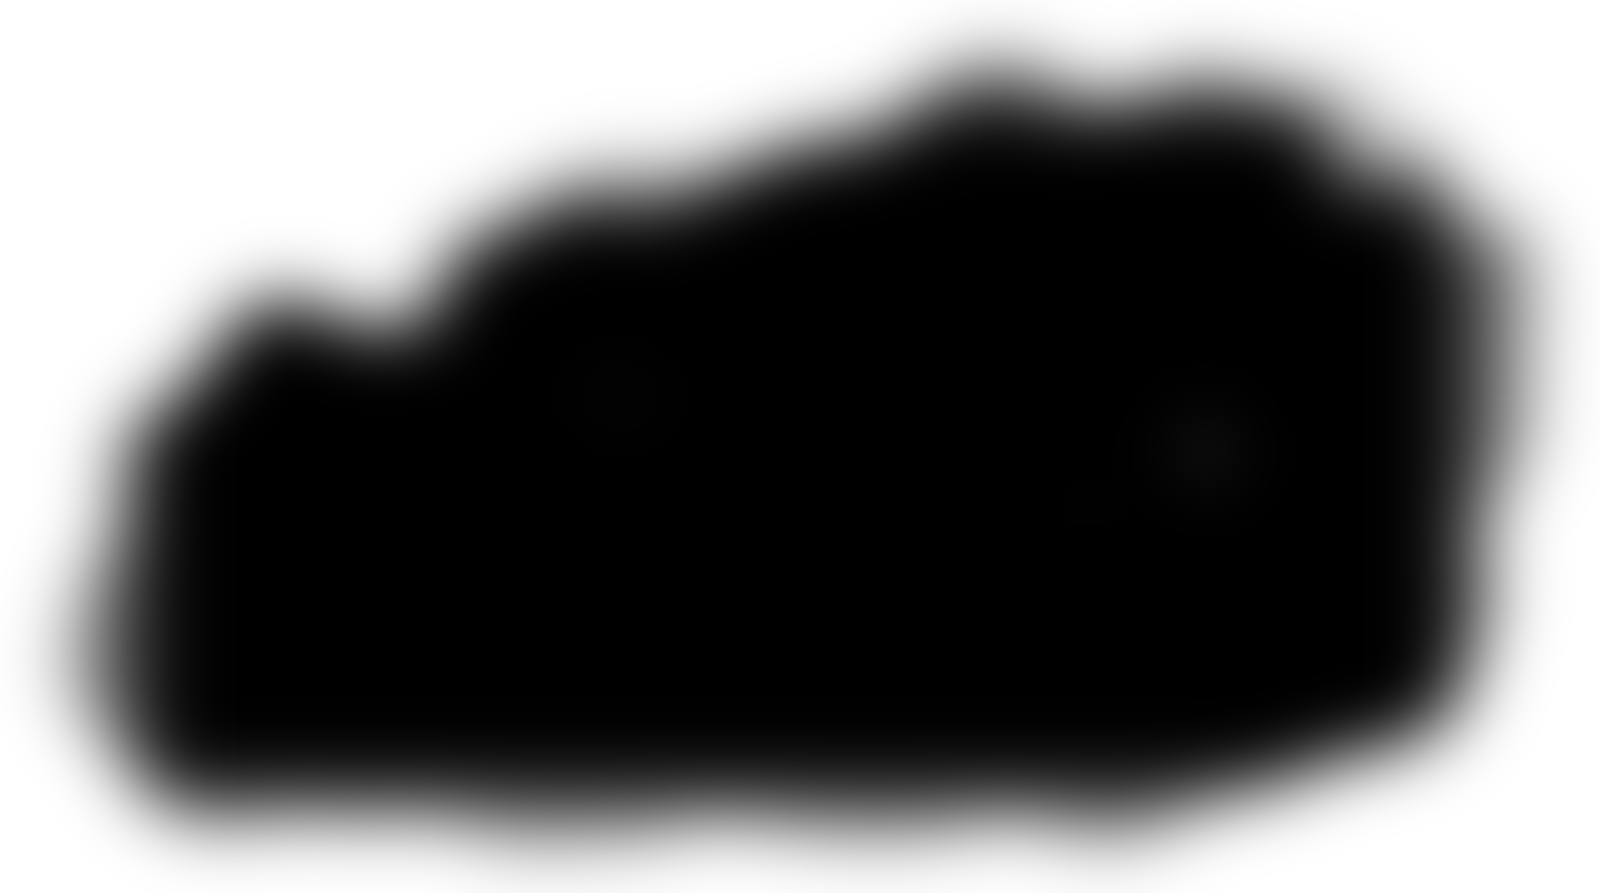
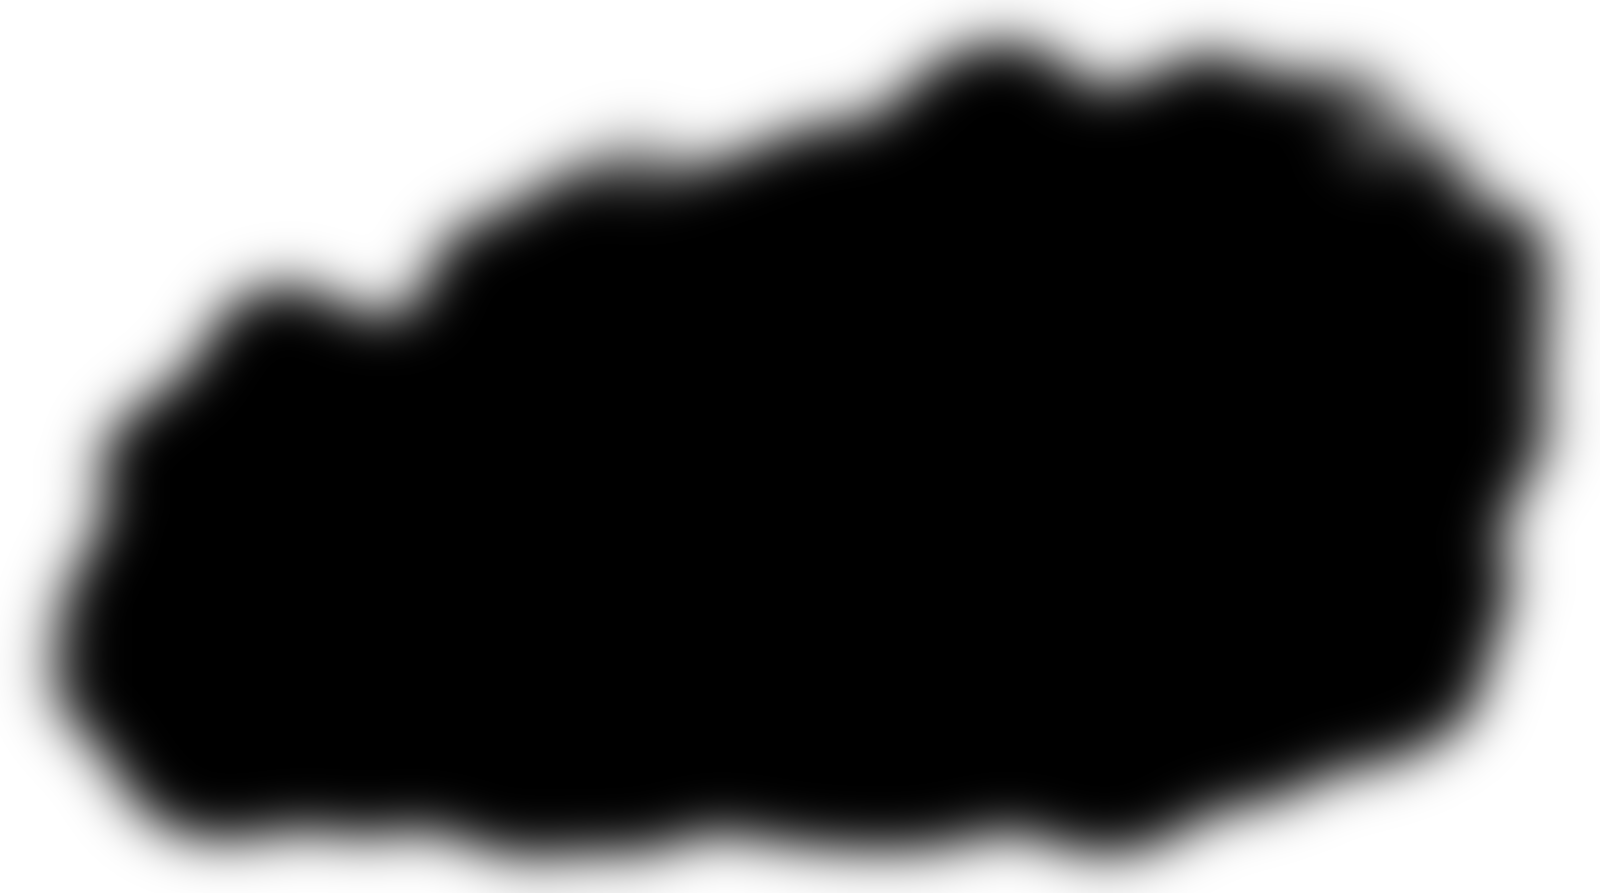
Obrázky putování v eseji: jen maska podle tuše (celé tahy štětce i stopy dole), střed mostu viditelný i v tmavém motivu
Claude-Session: https://claude.ai/code/session_01B7obWNd8t3eyi15XpW3dtB

Changed region(s): [[0.0, 0.0, 1.0, 0.9978]]

diff --git a/src/styles/essay.css b/src/styles/essay.css
@@ -876,7 +876,13 @@ html:not([data-theme='dark']) .essay-hero img {
   mask-repeat: no-repeat;
 }
 
-.essay-hero--live img.has-ink,
+/* Kresba na papíře má vlastní tvar skvrny: v eseji jen maska podle tuše (fresková by ořízla tahy štětce
+   nahoře a drobnosti u spodního okraje, např. stopy v dlažbě). */
+.essay-hero--live img.has-ink {
+  -webkit-mask-image: var(--pv-mask-ink);
+  mask-image: var(--pv-mask-ink);
+}
+
 html.pv-fresco .essay-hero img.pv-ink {
   -webkit-mask-image: var(--pv-mask), var(--pv-mask-ink);
   mask-image: var(--pv-mask), var(--pv-mask-ink);
@@ -886,7 +892,15 @@ html.pv-fresco .essay-hero img.pv-ink {
   mask-composite: intersect;
 }
 
+/* V tmavém motivu by krémový papír kolem tuše svítil jako svatozář: maska dvakrát přes sebe (alfa na druhou)
+   okraj stáhne blíž ke kresbě. */
 html[data-theme='dark'] .essay-hero--live img.has-ink {
+  -webkit-mask-image: var(--pv-mask-ink), var(--pv-mask-ink);
+  mask-image: var(--pv-mask-ink), var(--pv-mask-ink);
+  -webkit-mask-size: 100% 100%, 100% 100%;
+  mask-size: 100% 100%, 100% 100%;
+  -webkit-mask-composite: source-in;
+  mask-composite: intersect;
   filter: brightness(0.8);
 }
 

diff --git a/scripts/ink-masks.py b/scripts/ink-masks.py
@@ -8,7 +8,10 @@ from PIL import Image, ImageFilter
 
 import sys
 # bez argumentů: všechny zkušební obrázky; s argumenty: zadané soubory (maska do maska/ vedle nich)
-files = sys.argv[1:]
+# --fill: vyplní světlá místa uvnitř kresby (morfologické uzavření), když je papír součástí motivu
+# (mezera mezi konci mostu u mesto-ktere-dycha-2), jinak by v tmavém motivu zmizel střed obrázku
+FILL = '--fill' in sys.argv
+files = [a for a in sys.argv[1:] if a != '--fill']
 src = 'public/navrh-obrazku'
 out = os.path.join(src, 'maska')
 os.makedirs(out, exist_ok=True)
@@ -30,10 +33,21 @@ for f in (files or sorted(glob.glob(os.path.join(src, '[0-9]*.jpg')))):
     ink = np.clip((paper - a) / 0.22, 0, 1)
     k = Image.fromarray((ink * 255).astype(np.uint8)).filter(ImageFilter.GaussianBlur(w / 60))
     s = np.asarray(k, np.float32) / 255
-    alpha = smooth(0.25, 0.85, s) ** 1.6  # dlouhý pozvolný přechod, okraj se ztrácí uvnitř tuše
+    if FILL:
+        from scipy import ndimage
+        q = 8; small = s[::q, ::q]
+        r = max(3, int(small.shape[1] * 0.14))
+        yy, xx = np.ogrid[-r:r + 1, -r:r + 1]; disk = xx * xx + yy * yy <= r * r
+        closed = ndimage.grey_closing(small, footprint=disk)
+        big = np.asarray(Image.fromarray((closed * 255).astype(np.uint8)).resize((w, h), Image.BILINEAR), np.float32) / 255
+        # jen uprostřed obrázku: vnější zálivy u okrajů zůstanou průhledné (jinak svatozář papíru v tmavém motivu)
+        uu = np.linspace(-1, 1, w)[None, :]; vv = np.linspace(-1, 1, h)[:, None]
+        win = smooth(1.0, 0.55, np.sqrt((uu / 0.42) ** 2 + ((vv + 0.1) / 0.5) ** 2))
+        s = np.maximum(s, big * win)
+    alpha = smooth(0.12, 0.7, s) ** 1.3  # dlouhý pozvolný přechod, okraj se ztrácí uvnitř tuše
     u = np.linspace(0, 1, w)[None, :]; v = np.linspace(0, 1, h)[:, None]
-    alpha *= smooth(0, 0.12, np.minimum(u, 1 - u)) * smooth(0, 0.16, np.minimum(v, 1 - v))
-    m = Image.fromarray((alpha * 255).astype(np.uint8), 'L').filter(ImageFilter.GaussianBlur(w / 50))
+    alpha *= smooth(0, 0.06, np.minimum(u, 1 - u)) * smooth(0, 0.07, np.minimum(v, 1 - v))
+    m = Image.fromarray((alpha * 255).astype(np.uint8), 'L').filter(ImageFilter.GaussianBlur(w / 70))
     o = Image.new('LA', (w, h), 0); o.putalpha(m)
     name = os.path.basename(f).replace('.jpg', '.png')
     o.save(os.path.join(out, name), optimize=True)

diff --git a/docs/obrazky-putovani.md b/docs/obrazky-putovani.md
@@ -19,7 +19,7 @@ Stav 2026-11-23: styl nalezený po pěti kolech zkoušek (náhled `/putovani/nav
 - Masky: `maska/<slug>-N.png` podle tuše pro tmavý motiv (`python3 scripts/ink-masks.py`, pak zkopírovat z `navrh-obrazku/maska/`, nebo upravit cestu ve skriptu), `maska/freska.png` obecná.
 - Které putování obrázky má: `READY` v `src/lib/trail-images.ts`. Obrázky se ukážou jen u schválené eseje.
 - Rejstřík `/putovani/` má rozvržení karet ve dvou sloupcích s obrázkem nahoře (C, vybráno ze tří variant: A obraz za textem, B střídavé desky). Dokud nemají obrázky všechna putování, stojí vedle karty s obrázkem textové karty.
-- Na webu (2026-11-23): Bohové jako břemeno (katedrála ze žeber, kamenné víčko); Město, které dýchá (domy, které se otáčejí za chodcem; most z dlažby, kořenů, copů a prádla); Dům, ze kterého nejde odejít (měsíc jako zlatá klíčová dírka nad městečkem, okno uprostřed pláně s pokojem uvnitř). Válka, kterou nikdo nevyhraje (tři obrázky: prapory z hejn ptáků, kolotoč z děl, kavalerie z rozbitých hodin se svíčkou v temnu); Pod lhostejnými hvězdami (žebřík opřený o nebe s prázdnými botami a lucernou, gramofon, ze kterého se sypou hvězdy, u táboráku). Postup: 5 motivů, vybrat 2. **Motivy: surrealismus a neobvyklé kompozice, klidně velké měřítko a zachycený pohyb (Magritte, Dalí), neobvyklé spojení předmětů (v duchu Magritta), jen lehce doslovné** — první kolo s doslovnými motivy (tapeta, dveře, kolébka) majitel zamítl jako nenápadité. Do promptu řádek `Mood: subtle surrealism in the spirit of Magritte: one unexpected combination, quiet and uncanny, never literal or explanatory. Rich in discoverable detail: several unexpected secondary motifs are woven into the main forms, so the viewer keeps finding new things on a second look.` Masky: `python3 scripts/ink-masks.py public/putovani-obrazky/<slug>-1.jpg …`.
+- Na webu (2026-11-23): Bohové jako břemeno (katedrála ze žeber, kamenné víčko); Město, které dýchá (domy, které se otáčejí za chodcem; most z dlažby, kořenů, copů a prádla); Dům, ze kterého nejde odejít (měsíc jako zlatá klíčová dírka nad městečkem, okno uprostřed pláně s pokojem uvnitř). Válka, kterou nikdo nevyhraje (tři obrázky: prapory z hejn ptáků, kolotoč z děl, kavalerie z rozbitých hodin se svíčkou v temnu); Pod lhostejnými hvězdami (žebřík opřený o nebe s prázdnými botami a lucernou, gramofon, ze kterého se sypou hvězdy, u táboráku). Postup: 5 motivů, vybrat 2. **Motivy: surrealismus a neobvyklé kompozice, klidně velké měřítko a zachycený pohyb (Magritte, Dalí), neobvyklé spojení předmětů (v duchu Magritta), jen lehce doslovné** — první kolo s doslovnými motivy (tapeta, dveře, kolébka) majitel zamítl jako nenápadité. Do promptu řádek `Mood: subtle surrealism in the spirit of Magritte: one unexpected combination, quiet and uncanny, never literal or explanatory. Rich in discoverable detail: several unexpected secondary motifs are woven into the main forms, so the viewer keeps finding new things on a second look.` Masky: `python3 scripts/ink-masks.py public/putovani-obrazky/<slug>-1.jpg …`; když je světlý papír uprostřed součástí motivu (mezera mezi konci mostu), přidej `--fill`. V eseji se kresba ořezává jen maskou podle tuše (fresková maska by ořízla tahy štětce nahoře a stopy u spodního okraje; majitel 2026-11-23), v tmavém motivu je maska dvakrát přes sebe; v rejstříku zůstává i fresková (obrázek je tam oříznutý na 3 : 2).
 
 ## Jak generovat
 
